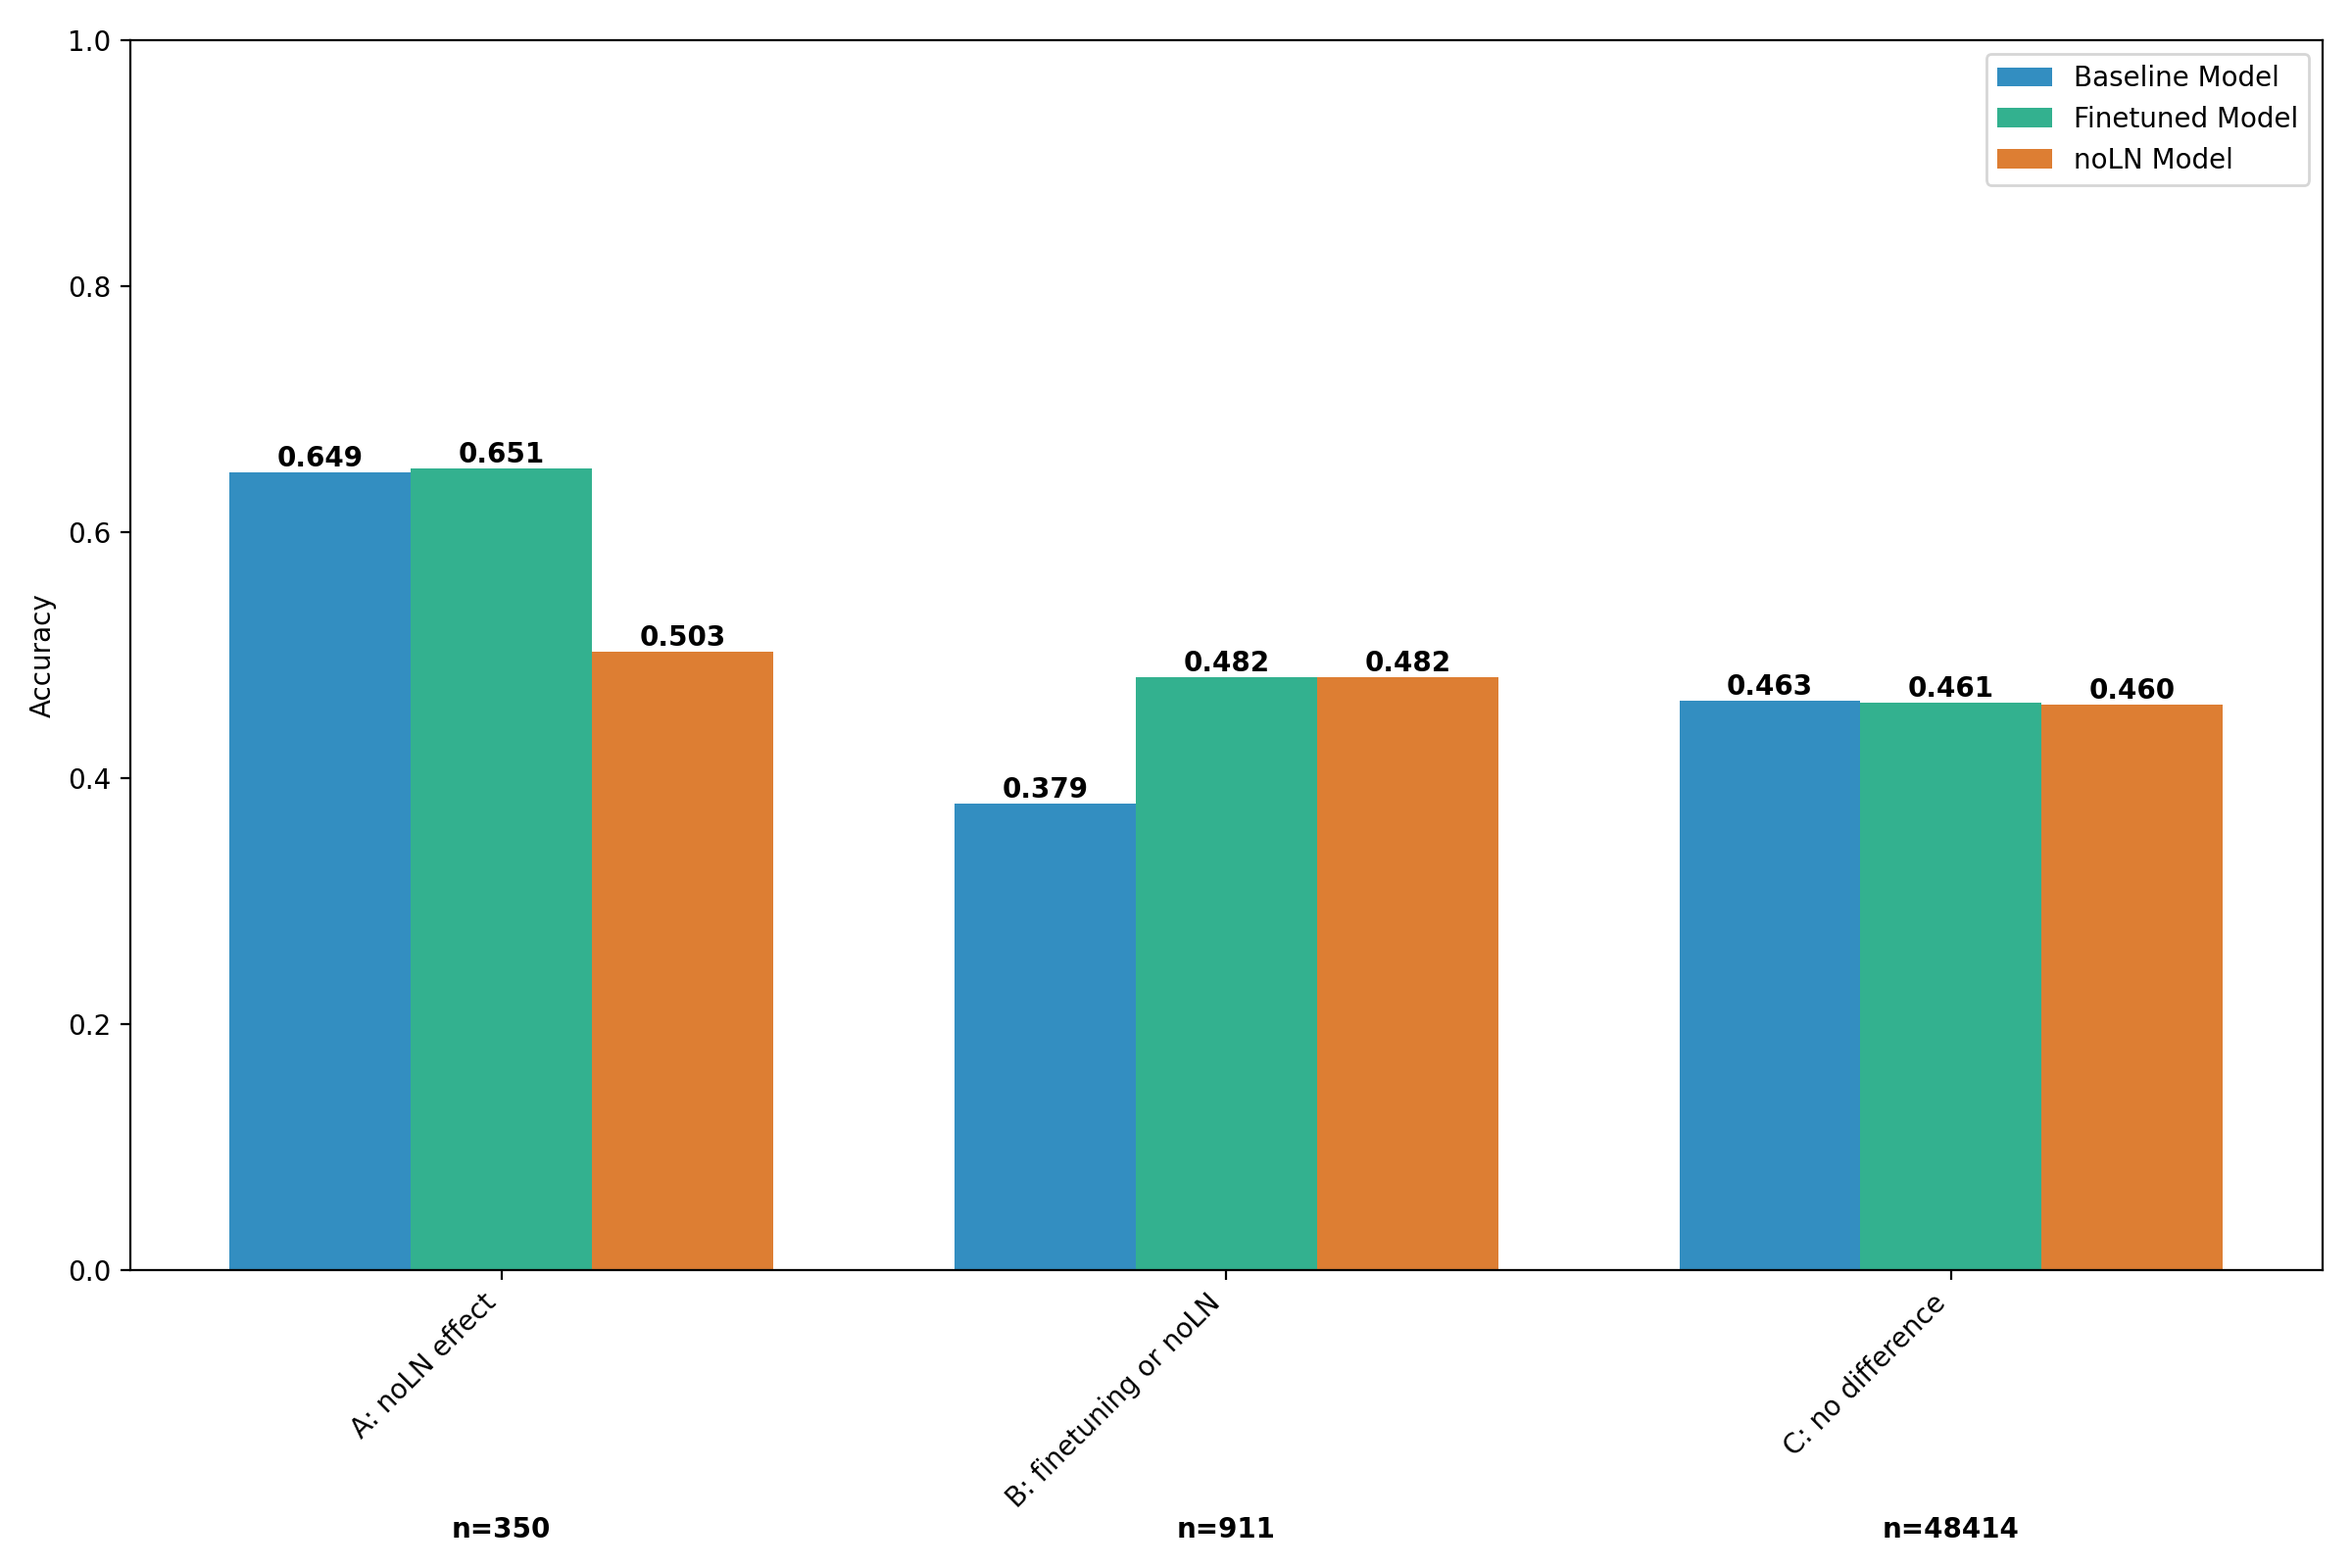
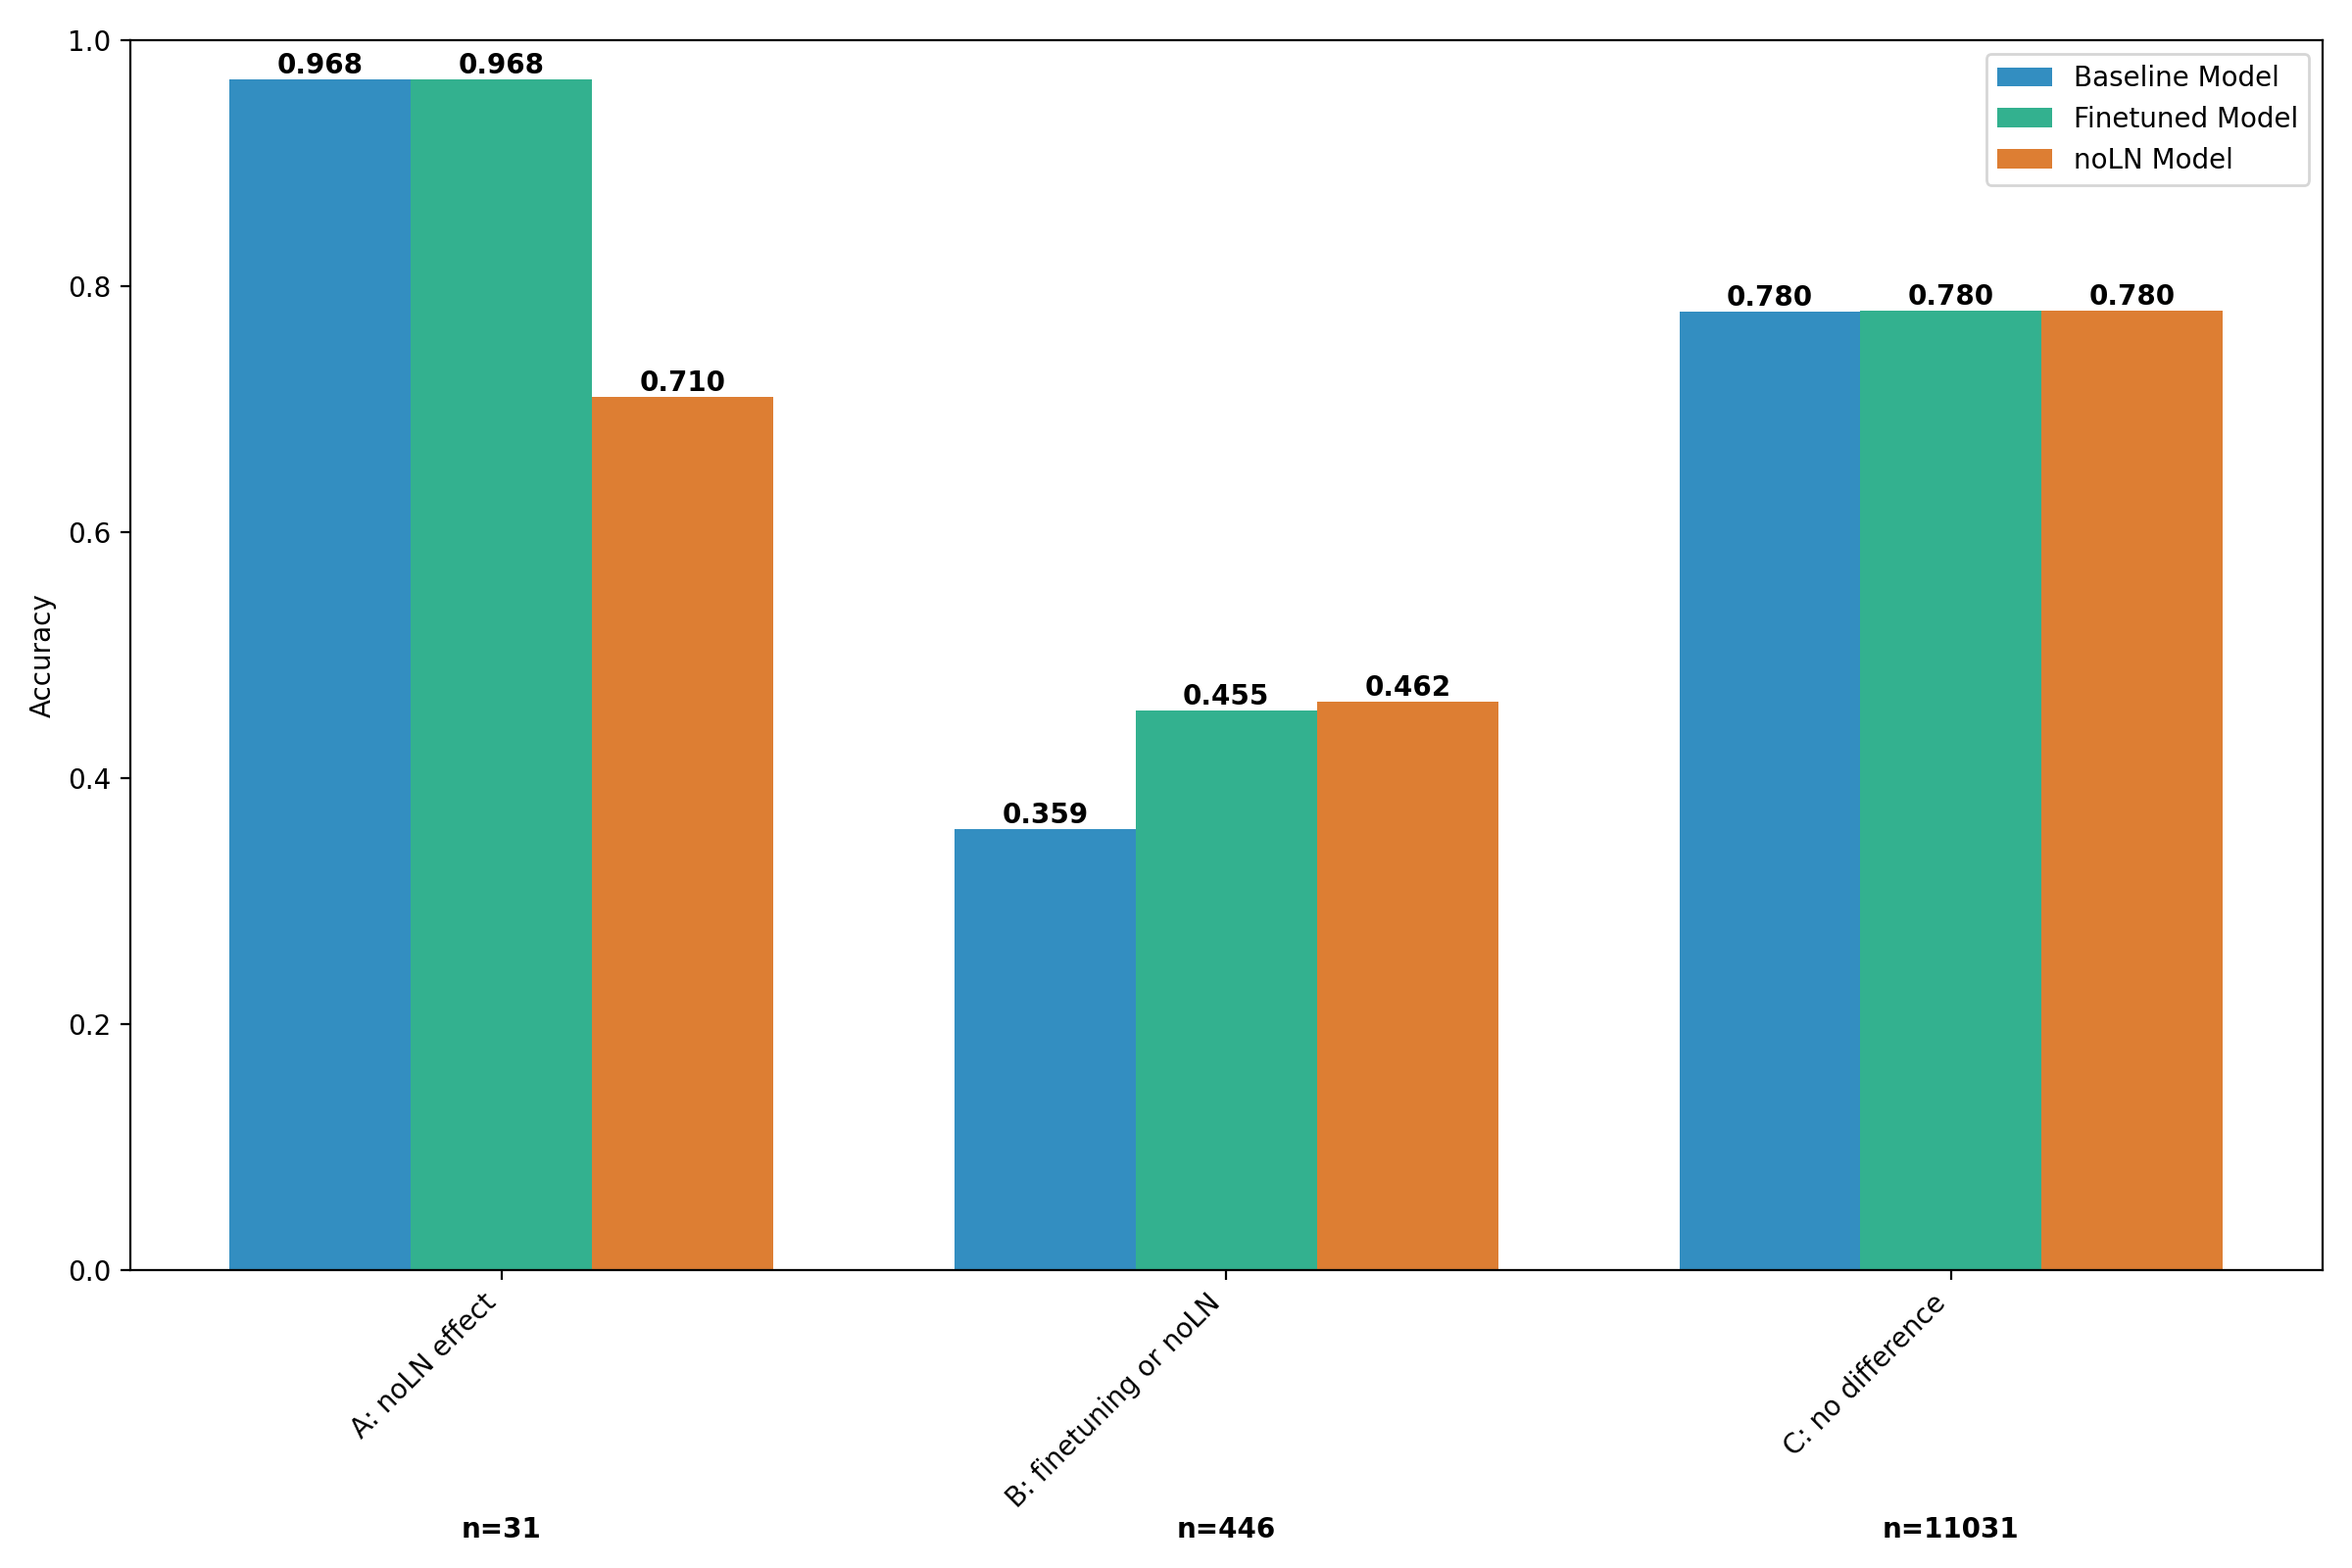
remade figures

diff --git a/mech_interp/analysis/gpt2-small/analyse_groups.py b/mech_interp/analysis/gpt2-small/analyse_groups.py
@@ -13,7 +13,7 @@ df = df[df.sequence_length >= 20]
 plt.style.use('seaborn-v0_8-colorblind')
 
 # Assuming df is your dataframe with all the columns mentioned
-def analyze_divergences(df, low_threshold=0.02, high_threshold=0.20):
+def analyze_divergences(df, low_threshold=0.01, high_threshold=0.20):
     """
     Analyze and visualize divergences between models.
     
@@ -119,7 +119,7 @@ def analyze_divergences(df, low_threshold=0.02, high_threshold=0.20):
 
 # Example usage:
 fig, labeled_df, counts = analyze_divergences(df)
-#fig.savefig('figures/subgroup_counts.png', dpi=200)
+fig.savefig('figures/subgroup_counts.png', dpi=200)
 plt.show()
 
 # %%
@@ -141,7 +141,7 @@ def plot_sequence_length_by_region(region_df):
         'B': 'finetuning or noLN',
         'C': 'no difference',
     }
-    
+   
     # Create a figure
     fig, ax = plt.subplots(figsize=(12, 8))
     
@@ -186,7 +186,7 @@ def plot_sequence_length_by_region(region_df):
     return fig
 
 fig = plot_sequence_length_by_region(labeled_df)
-#fig.savefig('figures/subgroup_seq_len.png', dpi=200)
+fig.savefig('figures/subgroup_seq_len.png', dpi=200)
 plt.show()
 
 
@@ -285,7 +285,7 @@ def analyze_accuracy_by_region(region_df):
 
 
 fig, _ = analyze_accuracy_by_region(labeled_df)
-#fig.savefig('figures/subgroup_accuracies.png', dpi=200)
+fig.savefig('figures/subgroup_accuracies.png', dpi=200)
 plt.show()
 
 # %%

diff --git a/mech_interp/data/subsample_pile.py b/mech_interp/data/subsample_pile.py
@@ -96,7 +96,7 @@ def parse_arguments():
     parser.add_argument('--max_length', type=int, default=512,
                         help='Maximum sequence length (default: 512)')
     parser.add_argument('--stride', type=int, default=16,
-                        help='Stride length for generating subsequences (default: 8)')
+                        help='Stride length for generating subsequences (default: 16)')
     
     return parser.parse_args()
 
